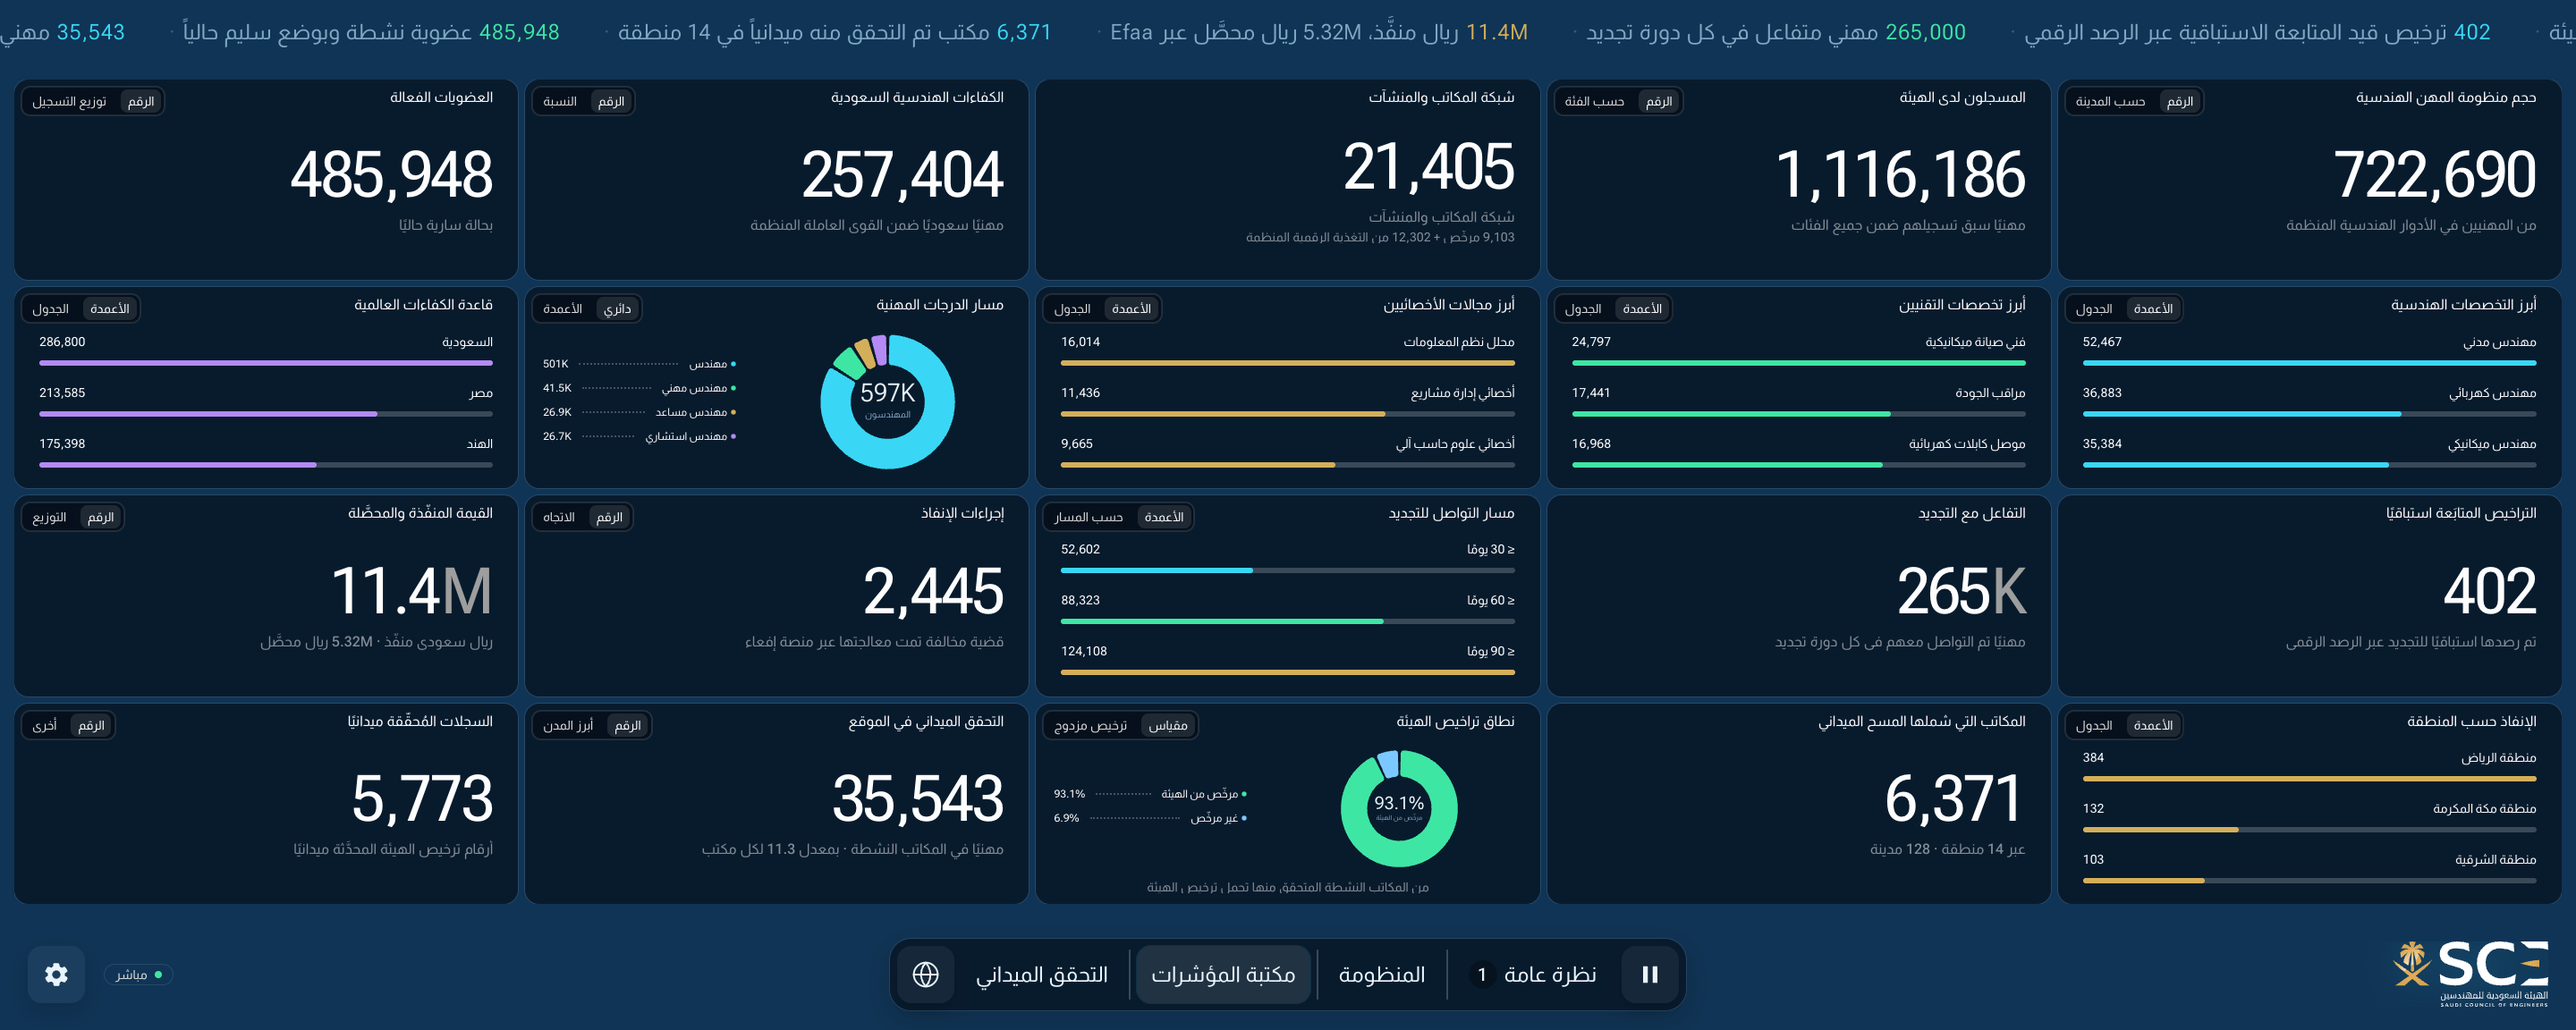
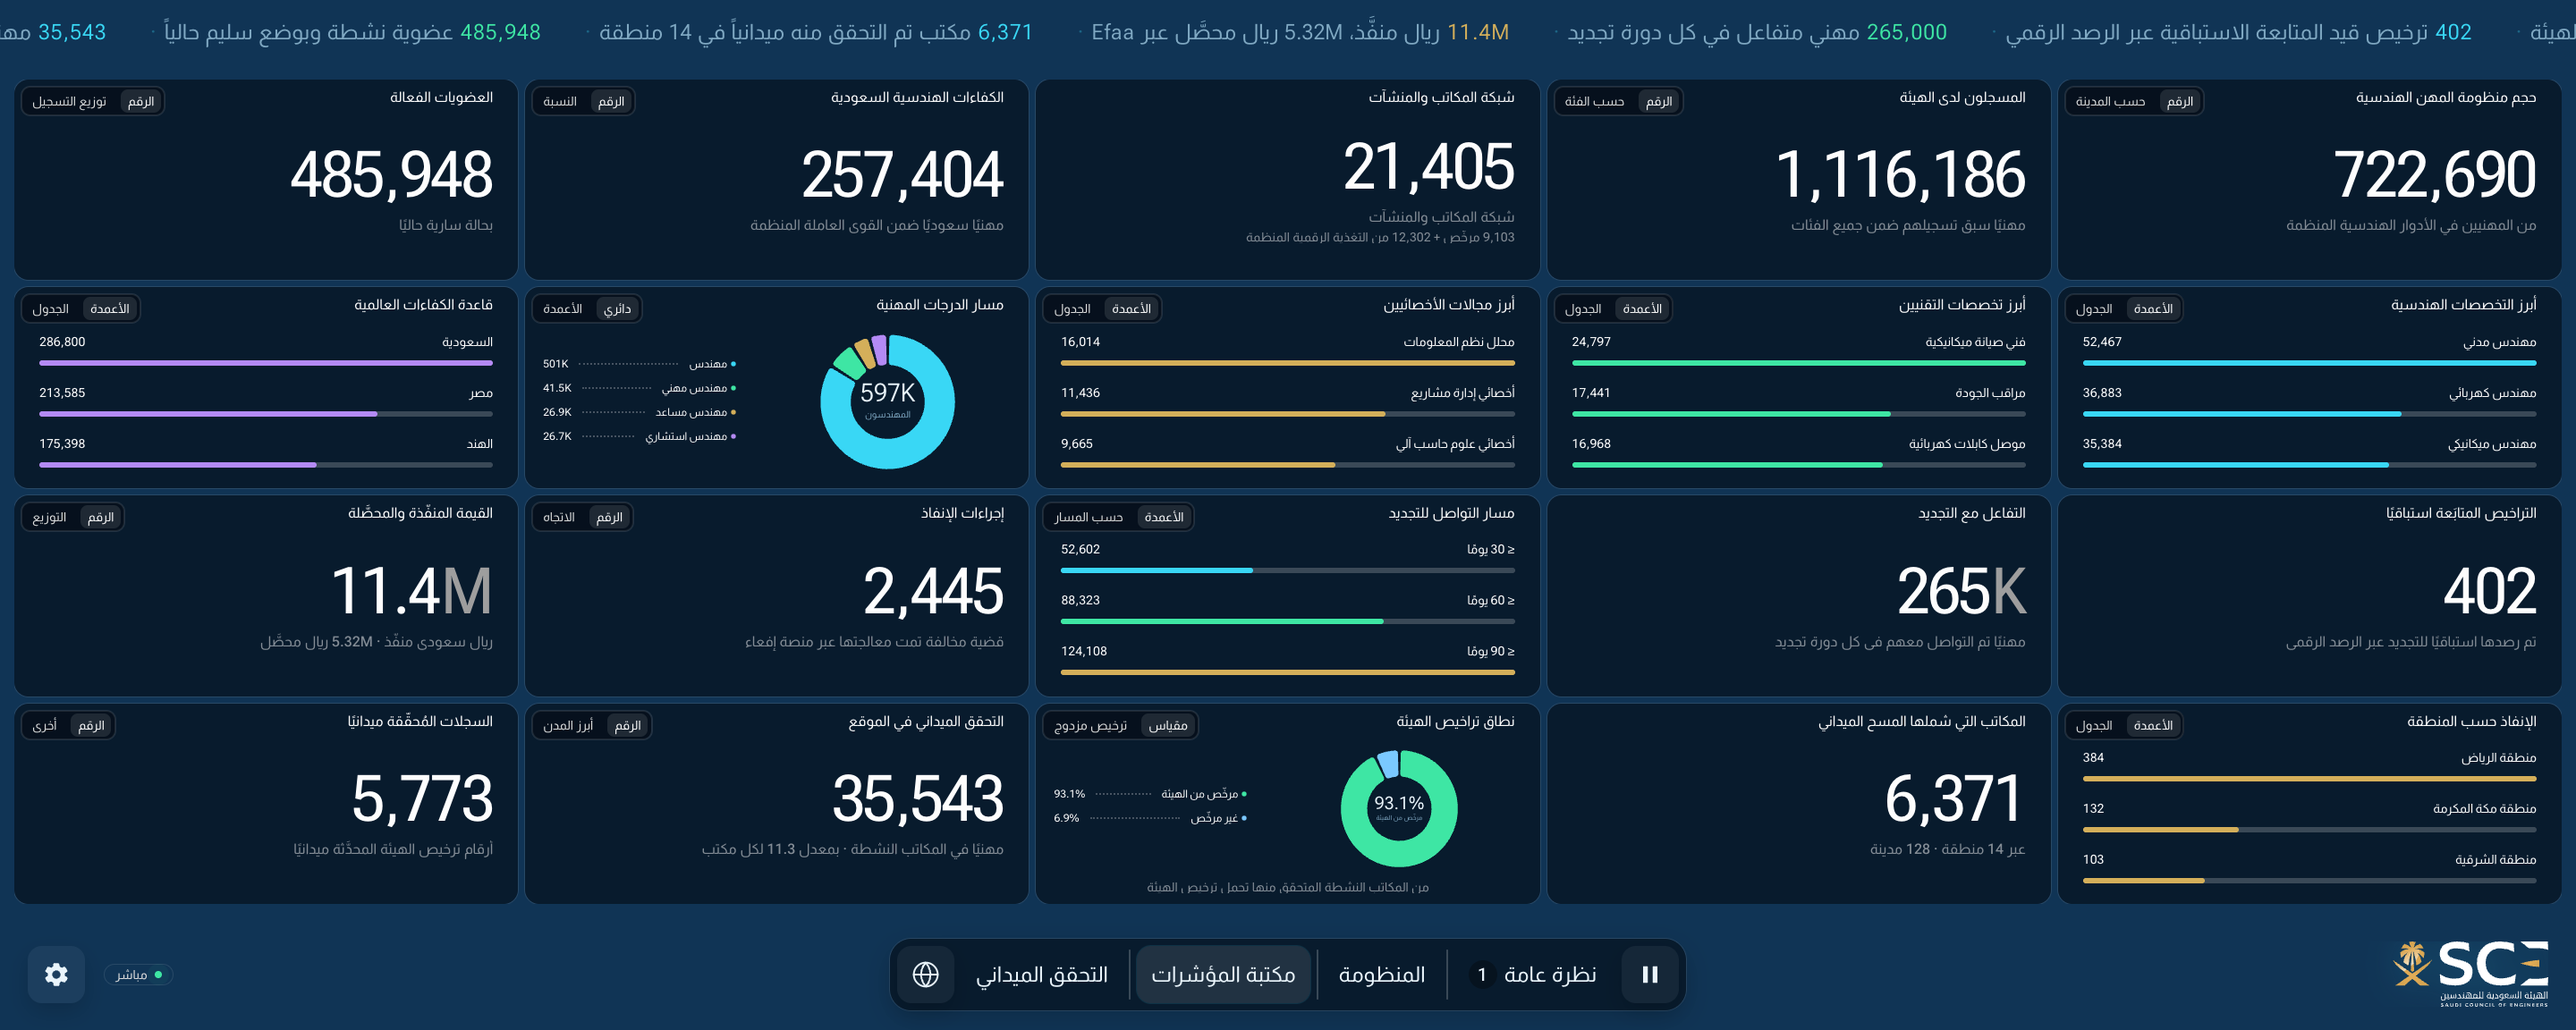
A cycle bar for presentation mode, and the ticker credit in one voice
Presentation mode hides the dock, and with it the only sign of how far
through the rotation the wall is. It now gets one: a hairline along the very
bottom edge running from the first screen of the cycle to the last, with a
tick wherever the content changes. No titles, no labels — the room is
watching the boards, not the chrome.

The bar spans the whole loop rather than the current board. One pass over
BOARDS at startup gives both the length of a rotation and the offset of every
switch inside it, so the ticks fall where the content actually changes: the
Big Screen's three 25s scenes make three narrow segments and the three 45s
boards that follow make wide ones, at 11.9 / 23.8 / 35.7 / 57.1 / 78.6% of a
210s cycle. The fill is a scaleX, not a width, for the same reason
.nav-item-fill is: it is written five times a second for as long as the wall
is up, and a width would be a layout and a repaint each time.

Two things found while building it:

- The bar rewound on every board change. During a transition `switching`
  takes slideshowTick down its early-return branch, where `current` is still
  the outgoing board, so painting there sent the bar back to that board's own
  start for the length of the transition and then jumped it forward two steps
  at once. It holds its last value through a switch instead, and the ratio
  now lands exactly on the tick: 0.250 at Ecosystem, 0.500 at KPI Library,
  0.751 at Field Verification, with no backward step across a full cycle.
[…]

diff --git a/app/assets/js/core/shell.js b/app/assets/js/core/shell.js
@@ -128,6 +128,8 @@
   var tickerEl = document.getElementById('ticker');
   var sceneHost = document.getElementById('scenes');
   var settingsBtn = document.getElementById('settingsBtn');
+  var cycleEl = document.getElementById('cycle');
+  var cycleFill = cycleEl && cycleEl.querySelector('.cycle-fill');
   var settingsPanel = document.getElementById('settingsPanel');
   var setTickerVisible = document.getElementById('setTickerVisible');
   var setTickerPaused = document.getElementById('setTickerPaused');
@@ -669,6 +671,51 @@
     el.style.transform = 'scaleX(' + ratio + ')';
   }
 
+  /* --- The cycle bar ---
+     One pass over BOARDS gives both the length of a full rotation and the
+     offset of every content switch inside it. A scene board spends its whole
+     slot on one panel set and steps its scenes inside it, so its scenes are
+     switches too and are marked at their own sceneMs, not at the board's. */
+  var cycleTotal = 0;
+  var cycleStarts = [];
+  var cycleMarks = [];
+
+  (function planCycle() {
+    for (var i = 0; i < BOARDS.length; i++) {
+      var slide = BOARDS[i].slideMs || SLIDE_MS;
+      cycleStarts.push(cycleTotal);
+      var scene = BOARDS[i].sceneMs;
+      if (scene && scene < slide) {
+        for (var at = scene; at < slide - 1; at += scene) {
+          cycleMarks.push(cycleTotal + at);
+        }
+      }
+      cycleTotal += slide;
+      if (i < BOARDS.length - 1) cycleMarks.push(cycleTotal);
+    }
+  })();
+
+  function buildCycleTicks() {
+    if (!cycleEl) return;
+    for (var i = 0; i < cycleMarks.length; i++) {
+      var tick = document.createElement('span');
+      tick.className = 'cycle-tick';
+      tick.style.insetInlineStart = (cycleMarks[i] / cycleTotal) * 100 + '%';
+      cycleEl.appendChild(tick);
+    }
+  }
+
+  /* Where the rotation stands, as one number for the whole loop: the boards
+     already finished plus how far into the current one we are. Clamped
+     because a held or paused board keeps its clock pinned at `now`. */
+  function setCycleFill(now) {
+    if (!cycleFill || current < 0) return;
+    var slide = BOARDS[current].slideMs || SLIDE_MS;
+    var into = Math.min(Math.max(0, now - slideStartedAt), slide);
+    var ratio = (cycleStarts[current] + into) / cycleTotal;
+    setNavFill(cycleFill, Math.min(1, Math.max(0, ratio)));
+  }
+
   function setPlaying(on) {
     playing = on;
     if (on) {
@@ -750,6 +797,12 @@
       // Whatever is on screen gets a full slot once the hold lifts.
       slideStartedAt = now;
       sceneStartedAt = now;
+      /* Not while switching. `current` is still the outgoing board until
+         reveal() runs, so painting here would rewind the bar to that board's
+         own start for the length of the transition and then jump forward two
+         steps at once. Held instead: the bar keeps its last value until the
+         incoming board owns the clock. */
+      if (!switching) setCycleFill(now);
       return;
     }
 
@@ -773,6 +826,7 @@
     if (current >= 0 && navFills[current]) {
       setNavFill(navFills[current], Math.min(1, elapsed / slideMs));
     }
+    setCycleFill(now);
     if (elapsed >= slideMs) advance(true);
   }
 
@@ -1042,6 +1096,7 @@
     localizeStatic();
     bindControls();
     bindSettings();
+    buildCycleTicks();
     setPlaying(settings.autoplay);
     setInterval(slideshowTick, 200);
   }

diff --git a/app/assets/css/shell.css b/app/assets/css/shell.css
@@ -901,10 +901,14 @@ html[data-clean] .hdr-meta {
   color: rgba(var(--cy-rgb), 0.3);
 }
 
+/* The credit reads in the ticker's own voice: same face, same size, same
+   0.04em tracking as every fact beside it (SCE review, 2026-08-29). It used
+   to be uppercase at 0.2em, which made the one non-numeric item on the strip
+   the most typographically distinct thing on it. Only the colour still sets
+   it apart — and that carries the Axion mark too, which takes its fill from
+   currentColor. */
 .ticker-item--credit {
   color: rgba(var(--cy-rgb), 0.4);
-  letter-spacing: 0.2em;
-  text-transform: uppercase;
 }
 
 @keyframes ticker-scroll {
@@ -929,4 +933,63 @@ html[data-clean] .hdr-meta {
 body.grid-dragging .ticker-track,
 .ticker.is-paused .ticker-track {
   animation-play-state: paused;
+}
+
+/* --- The cycle bar ---------------------------------------------------
+   Presentation mode hides the dock, and with it the only sign of how far
+   through the rotation the wall is. This is that sign and nothing else: no
+   titles, no labels, a hairline along the very bottom edge running from the
+   first screen of the cycle to the last, with a tick wherever the content
+   changes — the three Big Screen scenes and the three boards after them.
+
+   Height is the one measurement here that does NOT scale freely, and the
+   absolute px are deliberate. 6u is 7.8px at the default --u-scale of 1.3,
+   but `]` takes the scale to 2 and that would put the bar at 12px — a
+   component, not an edge. The clamp holds it inside the 4-8px it was asked
+   for at every scale the wall can be retuned to. */
+.cycle {
+  position: fixed;
+  z-index: 40;
+  right: 0;
+  bottom: 0;
+  left: 0;
+  height: clamp(4px, calc(6 * var(--u)), 8px);
+  background: rgba(var(--cy-rgb), 0.1);
+  opacity: 0;
+  pointer-events: none;
+  transition: opacity var(--dur-enter) var(--ease);
+}
+
+html[data-clean] .cycle {
+  opacity: 1;
+}
+
+/* Scaled, not sized: the same reason .nav-item-fill is a transform. This
+   element is written five times a second for as long as the wall is up, and
+   a width would be a layout and a repaint each time. */
+.cycle-fill {
+  position: absolute;
+  inset: 0;
+  background: var(--cy);
+  transform: scaleX(0);
+  transform-origin: left center;
+  will-change: transform;
+}
+
+[dir='rtl'] .cycle-fill {
+  transform-origin: right center;
+}
+
+/* One tick per switch, placed by its own share of the cycle's running time,
+   so a 25s scene and a 45s board are marked where they actually fall rather
+   than at even intervals. Drawn over the fill, in the ground colour, so a
+   passed tick still reads as a notch in the bar. */
+.cycle-tick {
+  position: absolute;
+  top: 0;
+  width: calc(2 * var(--u));
+  height: 100%;
+  margin-inline-start: calc(-1 * var(--u));
+  background: var(--ink);
+  opacity: 0.9;
 }

diff --git a/app/index.html b/app/index.html
@@ -38,6 +38,13 @@
 
       <main class="stage" id="stage"></main>
 
+      <!-- Presentation mode's only chrome: where the cycle has got to, from
+           the first screen to the last. Built by shell.js, which knows the
+           dwell of every board and scene; hidden until data-clean. -->
+      <div class="cycle" id="cycle" aria-hidden="true">
+        <span class="cycle-fill"></span>
+      </div>
+
       <header class="hdr">
         <!-- Presentation mode (the "/" key). With the chrome hidden the wall
              still has to say whose board it is, so the header collapses to the
